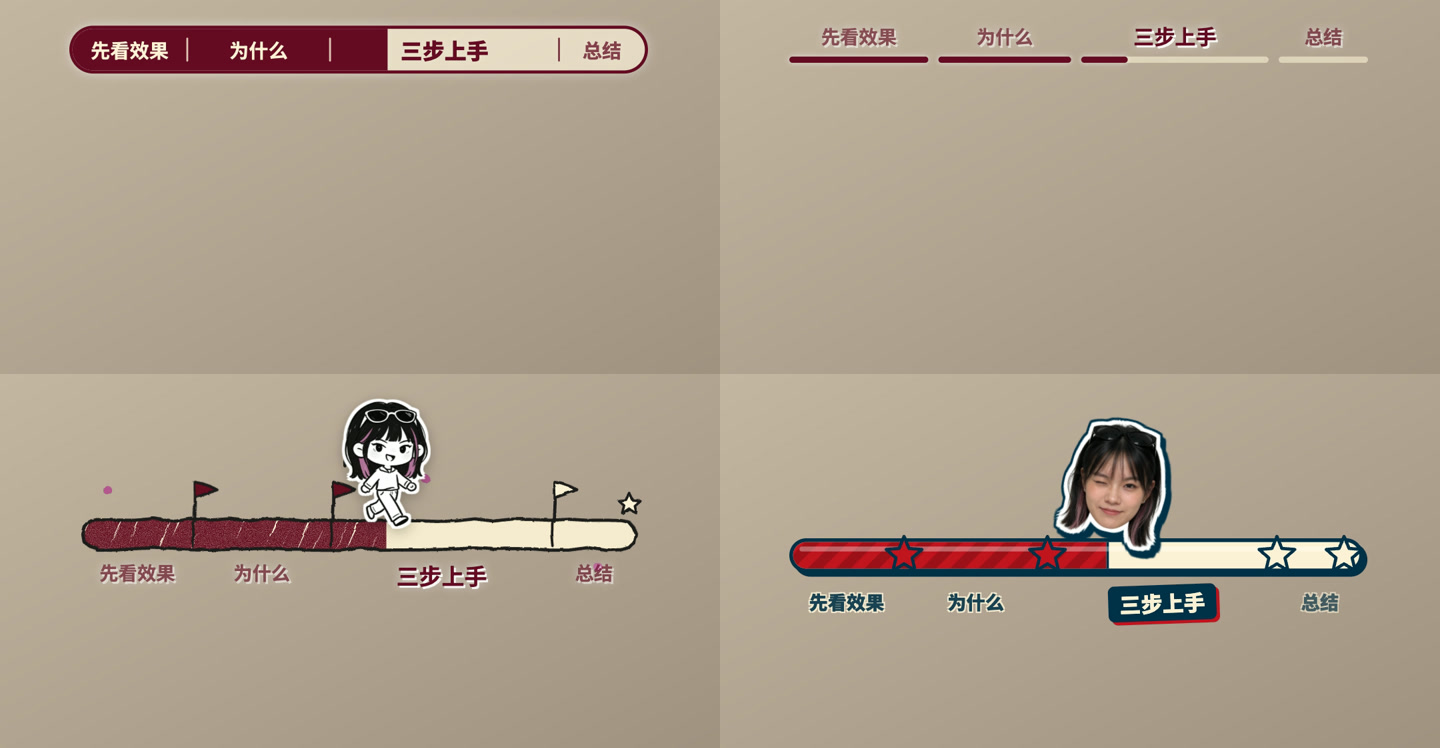
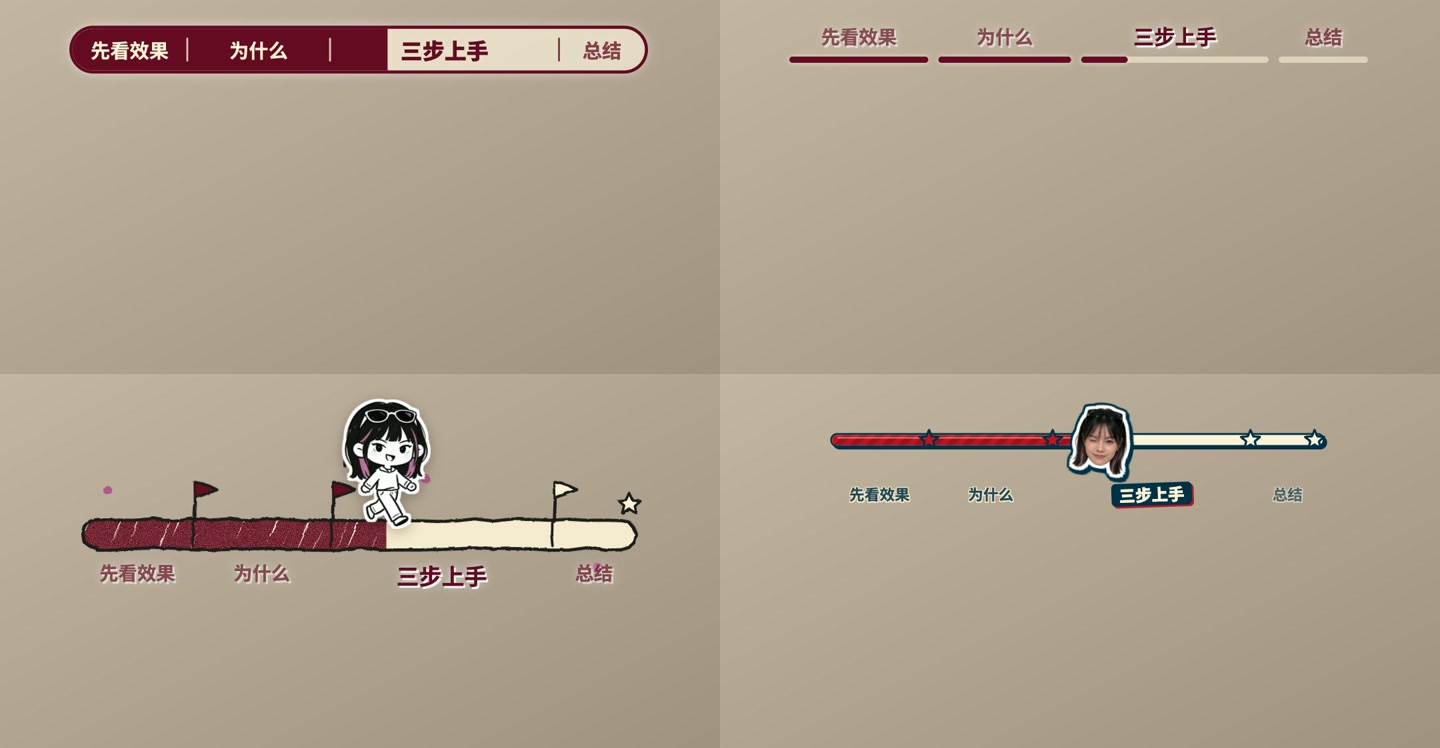
chapter-progress-bar 1.16: thinner style D with the face on the bar
Make the style D bar about half as thick, move the face onto the bar as
a slider, space the chapter names below it, and redraw the D samples
in the preview and the color sheet.

Changed region(s): [[0.5312, 0.5227, 0.9688, 0.861], [0.875, 0.6457, 0.9062, 0.6765]]

diff --git a/chapter-progress-bar/scripts/renderer.html b/chapter-progress-bar/scripts/renderer.html
@@ -15,7 +15,7 @@ html,body{margin:0;background:transparent;overflow:hidden}
 .spr{position:absolute;display:none}
 </style></head><body><div id="stage"><div id="band"><div id="mover"><div id="layer"></div><div id="spr" class="spr"></div></div></div></div>
 <script>
-const BOX={A:96,B:78,C:315,D:389};          // 各样式内容高度（虚拟单位）
+const BOX={A:96,B:78,C:315,D:206};          // 各样式内容高度（虚拟单位）
 const SCAP={A:1075,B:1075,C:1400,D:1400};   // s ≤ 画面高 / 这个数（横屏、方屏时防止条太粗）
 const clamp=(v,a,b)=>Math.max(a,Math.min(b,v));
 let CFG,SEG,TOTAL,starts,T,VW,CH,IMGS=[],rough={};
@@ -155,27 +155,36 @@ function rC(st,t){const L=CL(),W=CW(),r=CHT/2,fx=L+W*st.p;
  return s;}
 
 // ───────── D 美式复古条 + 表情角色 ─────────
-const DY=257,DH=54;
+// 细条 + 硬投影 + 流动条纹 + 每章一颗星；头像嵌在条上，跟着进度走（像滑块），标签在条下方
+const DY=74,DH=22,DHH=104;
 function star(x,y,rr,fill){const p=[];for(let i=0;i<10;i++){const a=-Math.PI/2+i*Math.PI/5,q=i%2?rr*.45:rr;p.push((x+Math.cos(a)*q).toFixed(1)+' '+(y+Math.sin(a)*q).toFixed(1));}
- return`<path d="M${p.join(' L')} Z" fill="${fill}" stroke="${T.ink}" stroke-width="5" stroke-linejoin="round"/>`;}
-function rD(st,t){const w=VW-8,fx=w*st.p,I=T.ink,M=T.main;
- let h=`<div style="position:absolute;left:7px;top:${DY-DH/2+7}px;width:${w}px;height:${DH}px;border-radius:${DH/2}px;background:${I}"></div>`;
- h+=`<div style="position:absolute;left:0;top:${DY-DH/2}px;width:${w}px;height:${DH}px;border-radius:${DH/2}px;background:${T.track};border:6px solid ${I};overflow:hidden">`;
- h+=`<div style="position:absolute;left:0;top:0;bottom:0;width:${fx}px;background:repeating-linear-gradient(-45deg,${M} 0 16px,${darken(M,.18)} 16px 32px);background-size:45.25px 45.25px;background-position:${(t*40)%45.25}px 0;border-right:${fx>2?4:0}px solid ${I}"></div>`;
- h+=`<div style="position:absolute;left:10px;right:10px;top:7px;height:8px;border-radius:4px;background:rgba(255,255,255,.35)"></div></div>`;
- let sv=`<svg width="${VW}" height="${BOX.D}" style="position:absolute;left:0;top:0;overflow:visible">`;
- [...starts.slice(1),1].forEach((p,k)=>{const last=k==SEG.length-1,reached=last?st.p>.999:st.p>=p-1e-6;sv+=star(clamp(w*p,30,w-30),DY,30,reached?M:T.track);});
- h+=sv+'</svg>';
- SEG.forEach((sg,k)=>{const cur=k==st.i,fz=cur?34:30,cx=labelX(w*segMid(k),sg.label,fz,cur?28:8);
-  if(cur)h+=`<div style="position:absolute;left:${cx}px;top:${DY+DH/2+20}px;transform:translateX(-50%) rotate(-2deg);background:${I};color:${T.track};font-size:${fz}px;font-weight:900;padding:4px 18px;border-radius:10px;box-shadow:5px 5px 0 ${M};white-space:nowrap">${sg.label}</div>`;
-  else h+=`<div style="position:absolute;left:${cx}px;top:${DY+DH/2+24}px;transform:translateX(-50%);color:${I};font-size:${fz}px;font-weight:900;white-space:nowrap;opacity:${k<st.i?.85:.6};text-shadow:2px 2px 0 ${T.track},-2px -2px 0 ${T.track},2px -2px 0 ${T.track},-2px 2px 0 ${T.track}">${sg.label}</div>`;});
+ return`<path d="M${p.join(' L')} Z" fill="${fill}" stroke="${T.ink}" stroke-width="3.5" stroke-linejoin="round"/>`;}
+function rD(st,t){const I=T.ink,M=T.main;
  // 每拍甩一下头（左右交替），甩的同一瞬间换下一个表情
  const beat=CH.beat??1.0,b=Math.floor(t/beat),u=(t%beat)/beat,dir=b%2?1:-1,n=CH.kind=='pack'?CH.frames.length:3,fi=b%n;
  const swp=Math.min(1,u/0.28),es=1-Math.pow(1-swp,3)+Math.sin(swp*Math.PI)*0.25;
- const shake=-dir*13+dir*26*es,pop=u<0.28?1+0.12*Math.sin(u/0.28*Math.PI):1,hh=190,ratio=spriteRatio(fi,1),ww=hh*ratio;
- // 头像转 13° 再放大 1.12 倍时，角会甩出原来的框：按最大摆幅算出要让多少
- const A13=13*Math.PI/180,over=Math.ceil(1.12*(ww/2*Math.cos(A13)+hh*.95*Math.sin(A13))-ww/2)+16;
- const left=clamp(fx-ww/2,over,VW-over-ww);
- placeSprite(fi,()=>builtinFace(fi),ratio,left,DY-DH/2-hh+4,hh,`rotate(${shake}deg) scale(${pop})`,'50% 95%',`${outline('#fff',5)} ${outline(I,3)} drop-shadow(7px 7px 0 ${I})`);
+ const shake=-dir*10+dir*20*es,pop=u<0.28?1+0.1*Math.sin(u/0.28*Math.PI):1,hh=DHH,ratio=spriteRatio(fi,1),ww=hh*ratio;
+ // 头像绕中心转 10° 再放大 1.1 倍时，角会甩出原来的框：按最大摆幅算出两头要留多少
+ const A=10*Math.PI/180,over=Math.max(0,Math.ceil(1.1*(ww/2*Math.cos(A)+hh/2*Math.sin(A))-ww/2))+8;
+ // 条从 L 画到 R；头像中心在 L..R 上按进度走，两头不出界
+ const L=ww/2+over,R=VW-4-L,w=R-L,cx=L+w*st.p,fx=cx-L;
+ let h=`<div style="position:absolute;left:${L+4}px;top:${DY-DH/2+4}px;width:${w}px;height:${DH}px;border-radius:${DH/2}px;background:${I}"></div>`;
+ h+=`<div style="position:absolute;left:${L}px;top:${DY-DH/2}px;width:${w}px;height:${DH}px;border-radius:${DH/2}px;background:${T.track};border:3.5px solid ${I};overflow:hidden">`;
+ h+=`<div style="position:absolute;left:0;top:0;bottom:0;width:${fx}px;background:repeating-linear-gradient(-45deg,${M} 0 9px,${darken(M,.18)} 9px 18px);background-size:25.46px 25.46px;background-position:${(t*24)%25.46}px 0"></div>`;
+ h+=`<div style="position:absolute;left:8px;right:8px;top:3px;height:3px;border-radius:2px;background:rgba(255,255,255,.35)"></div></div>`;
+ let sv=`<svg width="${VW}" height="${BOX.D}" style="position:absolute;left:0;top:0;overflow:visible">`;
+ [...starts.slice(1),1].forEach((p,k)=>{const last=k==SEG.length-1,reached=last?st.p>.999:st.p>=p-1e-6;sv+=star(clamp(L+w*p,L+16,R-16),DY,16,reached?M:T.track);});
+ h+=sv+'</svg>';
+ // 标签：比条字号小一档，离头像留出空隙；先按章节中点摆，再左右推开，任何两个标签之间至少留 GAP，放不下就整体缩小字号
+ const ly=DY+hh/2+16,GAP=20,PAD=12;let FN=24,FC=26;
+ const slot=k=>[...SEG[k].label].length*FC+PAD*2;   // 每个标签按「当前章」的大小占位，换章时位置不跳
+ while(SEG.reduce((a,_,k)=>a+slot(k),0)+GAP*(SEG.length-1)>VW&&FN>16){FN--;FC--;}
+ const lx=SEG.map((_,k)=>L+w*segMid(k));
+ for(let k=0;k<SEG.length;k++){lx[k]=Math.max(lx[k],slot(k)/2+4);if(k)lx[k]=Math.max(lx[k],lx[k-1]+(slot(k-1)+slot(k))/2+GAP);}
+ for(let k=SEG.length-1;k>=0;k--){lx[k]=Math.min(lx[k],VW-slot(k)/2-8);if(k<SEG.length-1)lx[k]=Math.min(lx[k],lx[k+1]-(slot(k)+slot(k+1))/2-GAP);}
+ SEG.forEach((sg,k)=>{const cur=k==st.i;
+  if(cur)h+=`<div style="position:absolute;left:${lx[k]}px;top:${ly}px;transform:translateX(-50%) rotate(-2deg);background:${I};color:${T.track};font-size:${FC}px;line-height:1.3;font-weight:900;padding:1px ${PAD}px;border-radius:7px;box-shadow:3px 3px 0 ${M};white-space:nowrap">${sg.label}</div>`;
+  else h+=`<div style="position:absolute;left:${lx[k]}px;top:${ly+2}px;transform:translateX(-50%);color:${I};font-size:${FN}px;line-height:1.3;font-weight:700;white-space:nowrap;opacity:${k<st.i?.8:.55};text-shadow:1.5px 1.5px 0 ${T.track},-1.5px -1.5px 0 ${T.track},1.5px -1.5px 0 ${T.track},-1.5px 1.5px 0 ${T.track}">${sg.label}</div>`;});
+ placeSprite(fi,()=>builtinFace(fi),ratio,cx-ww/2,DY-hh/2,hh,`rotate(${shake}deg) scale(${pop})`,'50% 50%',`${outline('#fff',4)} ${outline(I,2.5)} drop-shadow(4px 4px 0 ${I})`);
  return h;}
 </script></body></html>

diff --git a/chapter-progress-bar/README.md b/chapter-progress-bar/README.md
@@ -1,6 +1,6 @@
 # 章节进度条 chapter-progress-bar
 
-版本 1.15（2026-11-20）
+版本 1.16（2026-11-20）
 
 给口播、教程类视频加一根会往前走的章节进度条，让观众知道讲到哪了、还剩多少。这是一个给 AI Agent 用的 skill（Claude Code、Codex 等都能用）：你用大白话告诉 Agent 要什么，它照这个 skill 帮你出片。
 
@@ -11,7 +11,7 @@
 | **A 空心横条** | 描边的空心横条，章节名写在条里，颜色从左往右一直推 | 无 |
 | **B 分段细条** | 每章一段细条，章节名在段上方，当前段逐步填满 | 无 |
 | **C 手绘条** | 勾线手绘管子 + 蜡笔涂色 + 小旗 | **你自己的**走路小人 |
-| **D 美式复古条** | 粗描边 + 硬投影 + 流动条纹 + 星星 | **你自己的**表情头像，甩头时换表情 |
+| **D 美式复古条** | 描边细条 + 硬投影 + 流动条纹 + 星星 | **你自己的**表情头像压在条上跟着走，甩头时换表情 |
 
 > 上图 C、D 里是作者 Raylin 的形象，只是示范。**用 C、D 前要先上传你自己的形象**（见下文「第一步」），skill 里没有可以直接用的角色。A、B 装好就能用。
 
